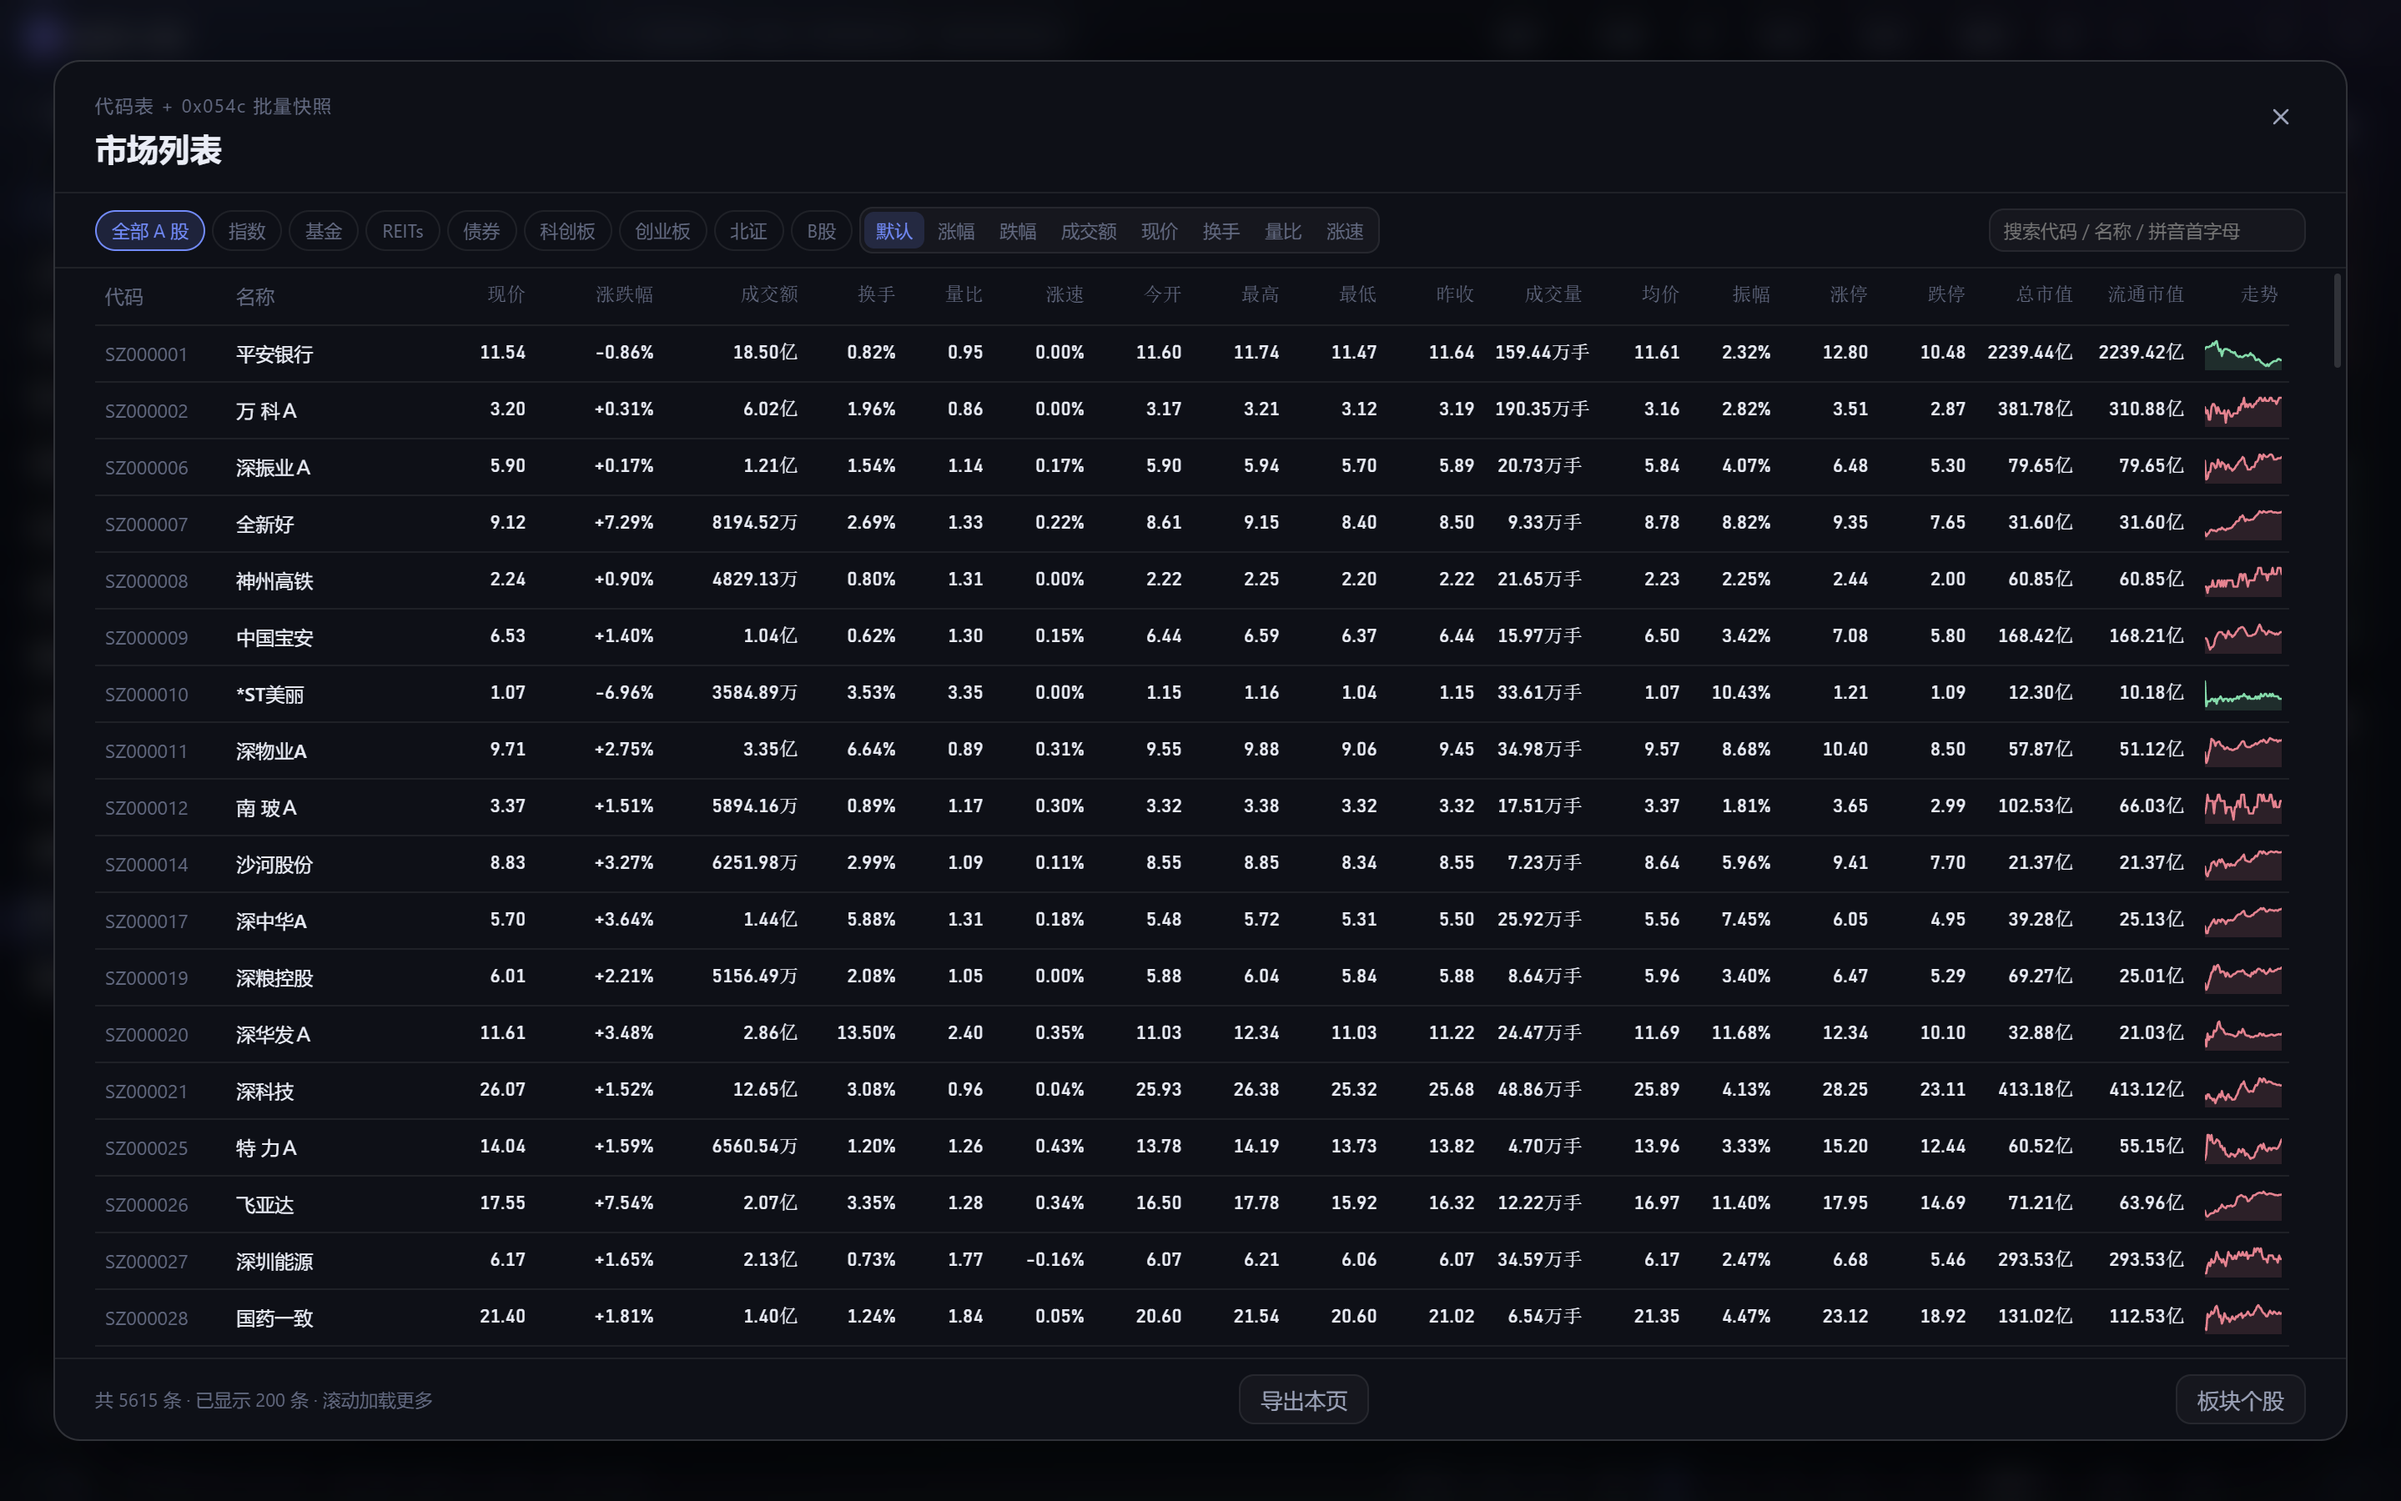
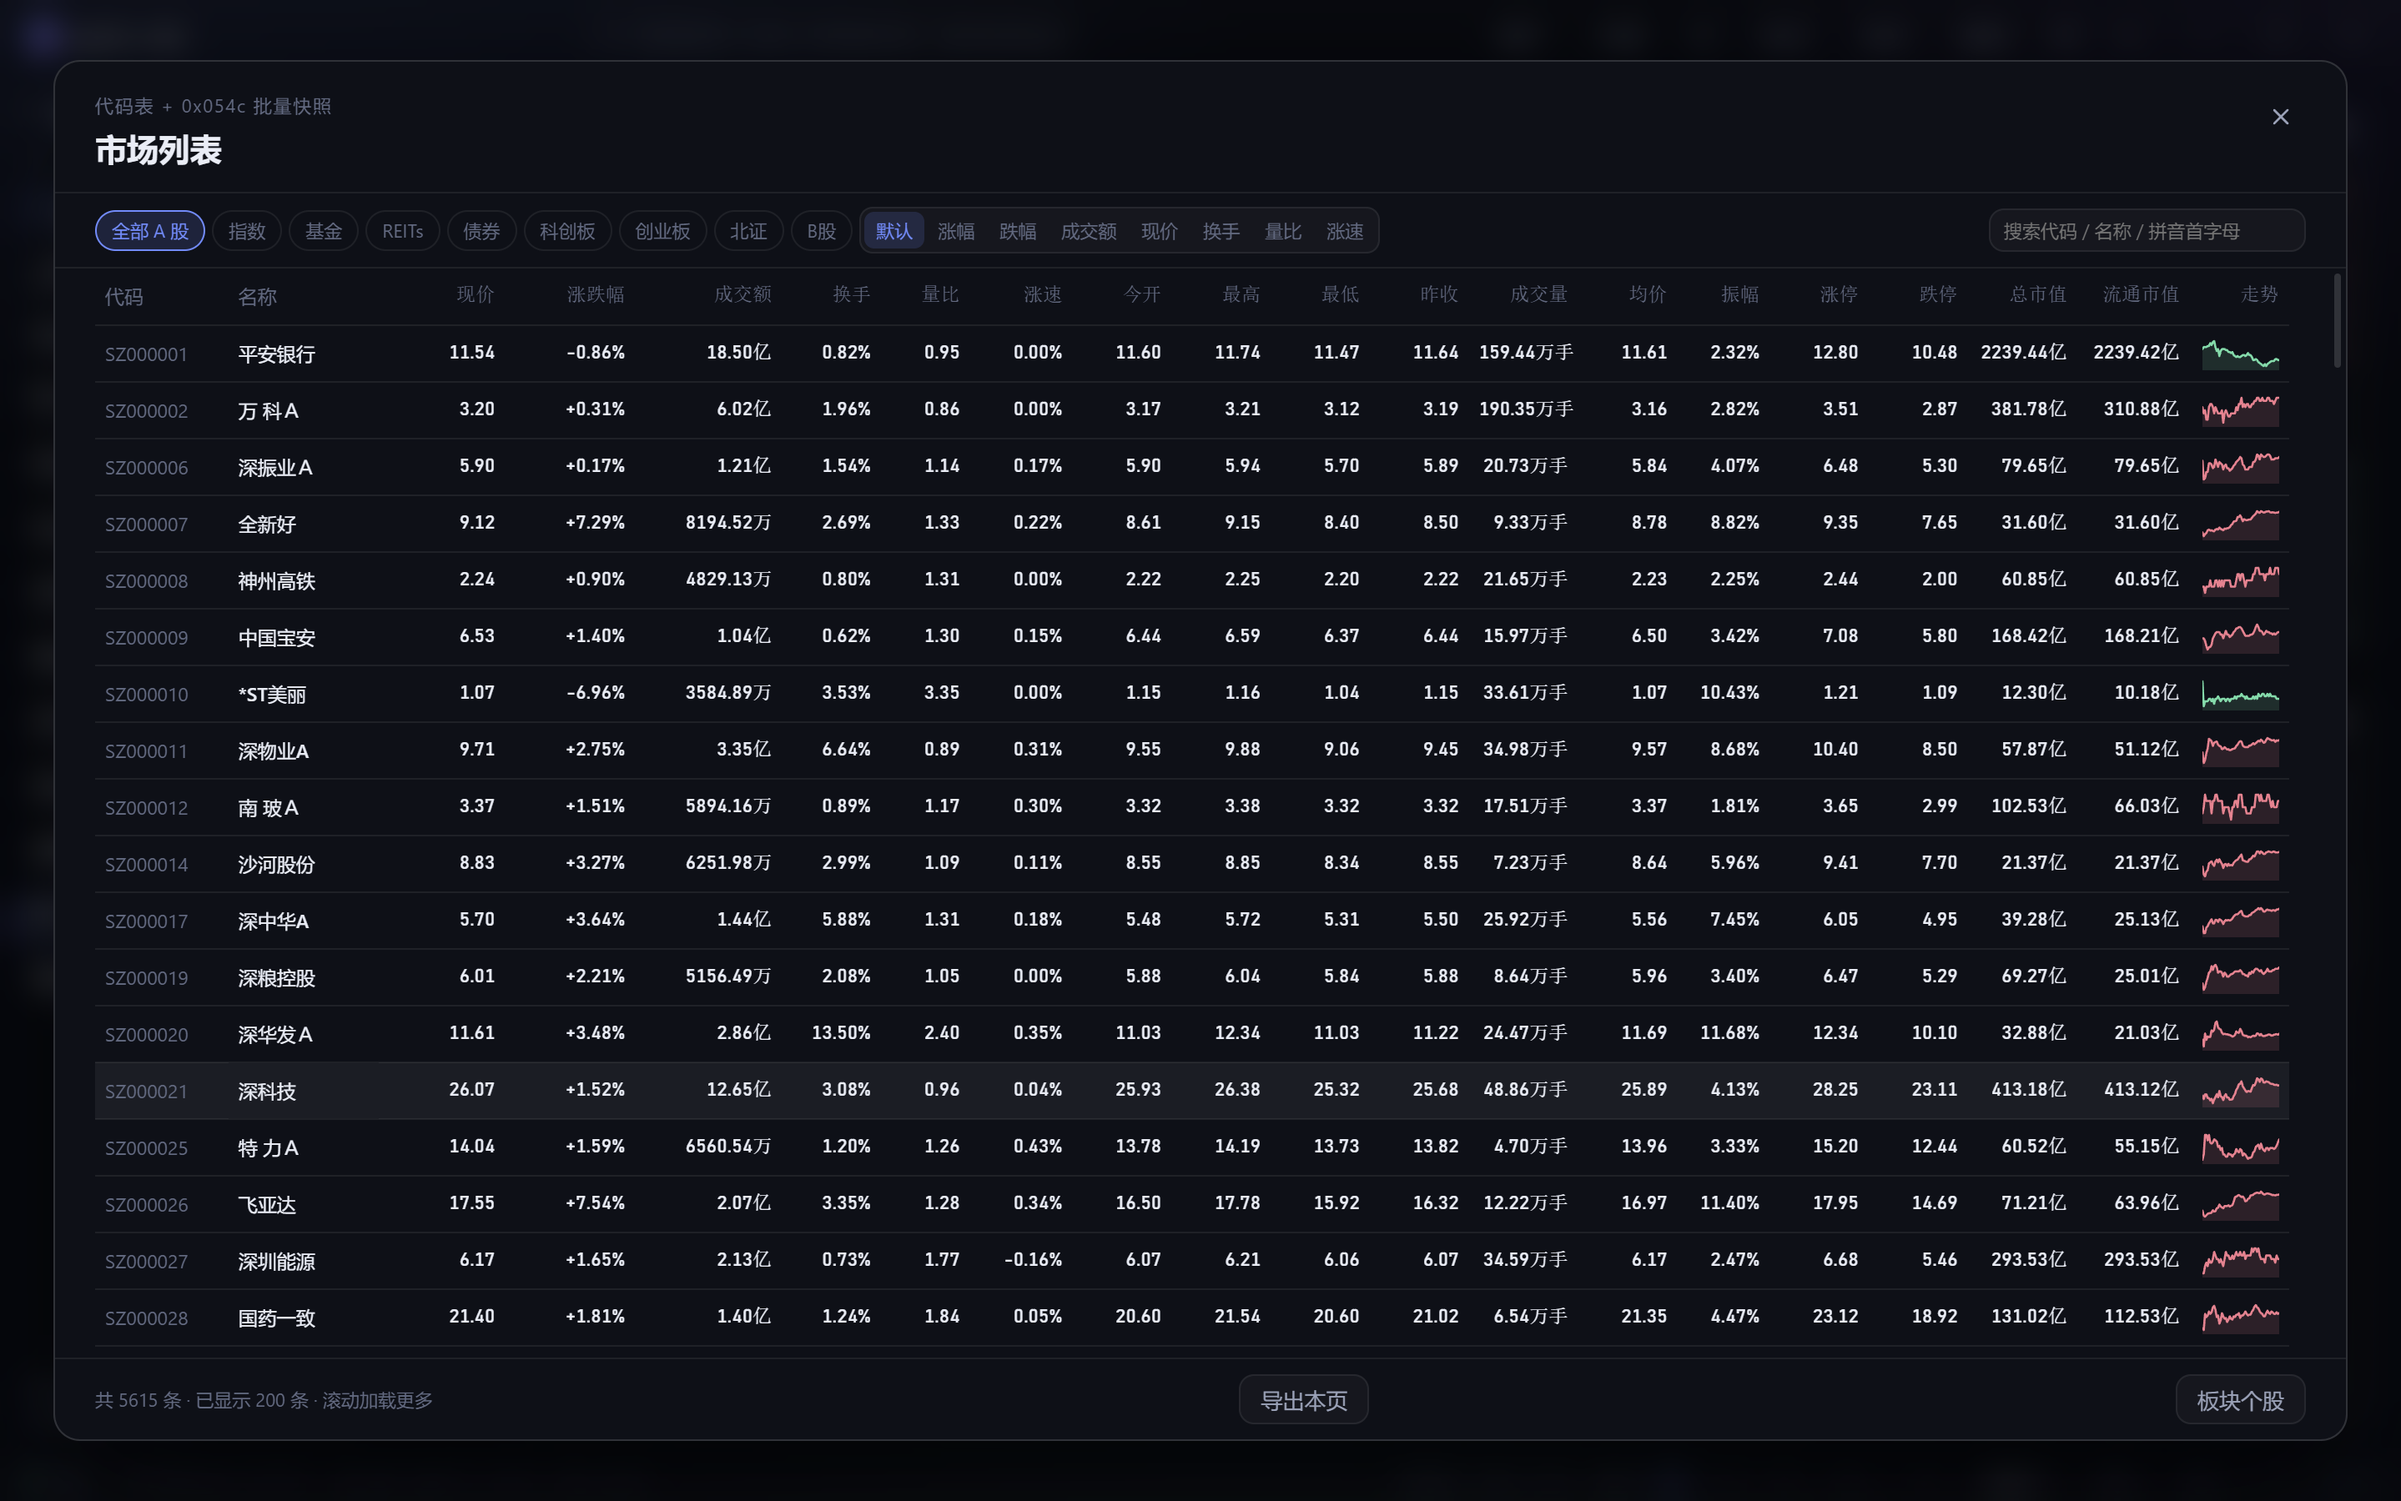
fix: 收窄三表名称列，修复板块侧栏走势图
- 全市场/板块/排行榜名称列收窄到 88/76/78，走势列加到 58，1440 下无横向滚动
- 板块/概念底部横向滚动条由走势列过窄导致，已消除
- 板块侧栏走势图按显示顺序预热，并随滚动补齐可见行
- 重新生成三张文档截图；npm run check 全绿；Windows 1.1.0 包重建

diff --git a/src/renderer/src/components/Sidebar.tsx b/src/renderer/src/components/Sidebar.tsx
@@ -29,7 +29,11 @@ import {
 } from '../stores/app'
 import { applyQuotes, quoteOf } from '../stores/quotes'
 import { openStockMenu } from '../stores/stockMenu'
-import { createSparklineLoader, sparklineOf } from '../stores/sparklines'
+import {
+  createSparklineLoader,
+  requestVisibleSparklines,
+  sparklineOf
+} from '../stores/sparklines'
 import { api, errorMessage } from '../lib/ipc'
 import { toneOf } from '../lib/tone'
 import { SectorPicker, type SectorSelection } from './SectorPicker'
@@ -82,6 +86,7 @@ function SectorRow(props: {
         'sector-row--drop-after': dropSide() === 'after'
       }}
       data-active={appState.activeCode === props.code}
+      data-code={props.code}
       title={`${props.name} ${props.code.toUpperCase()}${canDrag() ? '（可拖拽排序）' : ''}`}
       draggable={canDrag()}
       onDragStart={(event) => {
@@ -240,8 +245,8 @@ export function Sidebar(props: SidebarProps): JSX.Element {
   }
 
   const sectorRows = createMemo(() => rankRows(sector()))
-  // 板块成分股的迷你走势图：全部代码排队加载（加载器限 3 并发，边可见边出现）
-  createSparklineLoader(() => sector()?.codes ?? [])
+  // 按「显示顺序」预热，而不是按板块原始代码顺序；否则涨跌幅排序后首屏可能没有走势图。
+  createSparklineLoader(() => sectorRows().map((row) => row.code))
   /**
    * 自定义板块按 groupId 现算，而不是用选择时的快照：
    * 用户在这个分组里加/删股票后，排行要立刻跟着变。
@@ -262,6 +267,7 @@ export function Sidebar(props: SidebarProps): JSX.Element {
       quote: quoteOf(code)
     }))
   })
+  createSparklineLoader(() => customRows().map((row) => row.code))
   /** 「自定义板块」= 除自选之外的所有分组；自选那一组不再以分组形式出现 */
   const customGroups = createMemo(() =>
     appState.groups.filter((group) => group.id !== defaultGroup()?.id)
@@ -476,7 +482,10 @@ export function Sidebar(props: SidebarProps): JSX.Element {
           </button>
         </div>
         <Show when={sectorError()}>{(message) => <div class="sector-error">{message()}</div>}</Show>
-        <div class="sidebar__list sector-list">
+        <div
+          class="sidebar__list sector-list"
+          onScroll={(event) => requestVisibleSparklines(event.currentTarget)}
+        >
           <Show
             when={sector()}
             fallback={
@@ -528,7 +537,10 @@ export function Sidebar(props: SidebarProps): JSX.Element {
             删除
           </button>
         </div>
-        <div class="sidebar__list sector-list">
+        <div
+          class="sidebar__list sector-list"
+          onScroll={(event) => requestVisibleSparklines(event.currentTarget)}
+        >
           <Show
             when={customSector()}
             fallback={

diff --git a/src/renderer/src/components/BlockPanel.tsx b/src/renderer/src/components/BlockPanel.tsx
@@ -316,18 +316,18 @@ export function BlockPanel(props: BlockPanelProps): JSX.Element {
                   >
                     <table class="block__table">
                       <colgroup>
-                        <col style="width: 64px" />
-                        <col style="width: 88px" />
-                        <col style="width: 64px" />
-                        <col style="width: 64px" />
-                        <col style="width: 70px" />
+                        <col style="width: 60px" />
+                        <col style="width: 76px" />
+                        <col style="width: 62px" />
+                        <col style="width: 62px" />
+                        <col style="width: 68px" />
                         <col style="width: 52px" />
                         <col style="width: 46px" />
-                        <col style="width: 50px" />
+                        <col style="width: 48px" />
                         <For each={EXTRA_COLUMNS}>
                           {(column) => <col style={{ width: `${column.width - 2}px` }} />}
                         </For>
-                        <col style="width: 36px" />
+                        <col style="width: 58px" />
                       </colgroup>
                       <thead>
                         <tr>

diff --git a/src/renderer/src/components/RankingPanel.tsx b/src/renderer/src/components/RankingPanel.tsx
@@ -436,7 +436,7 @@ export function RankingPanel(props: RankingPanelProps): JSX.Element {
             <colgroup>
               <col style="width: 36px" />
               <col style="width: 70px" />
-              <col style="width: 90px" />
+              <col style="width: 78px" />
               <col style="width: 72px" />
               <col style="width: 74px" />
               <col style="width: 84px" />
@@ -449,7 +449,7 @@ export function RankingPanel(props: RankingPanelProps): JSX.Element {
               <Show when={flowMode()}>
                 <col style="width: 86px" />
               </Show>
-              <col style="width: 50px" />
+              <col style="width: 58px" />
             </colgroup>
             <thead>
               <tr>

diff --git a/src/renderer/src/components/MarketListPanel.tsx b/src/renderer/src/components/MarketListPanel.tsx
@@ -349,7 +349,7 @@ export function MarketListPanel(props: {
           <table class="market__table">
             <colgroup>
               <col style="width: 78px" />
-              <col style="width: 110px" />
+              <col style="width: 88px" />
               <col style="width: 74px" />
               <col style="width: 76px" />
               <col style="width: 86px" />
@@ -359,7 +359,7 @@ export function MarketListPanel(props: {
               <For each={EXTRA_COLUMNS}>
                 {(column) => <col style={{ width: `${column.width}px` }} />}
               </For>
-              <col style="width: 56px" />
+              <col style="width: 58px" />
             </colgroup>
             <thead>
               <tr>

diff --git a/src/renderer/src/stores/sparklines.ts b/src/renderer/src/stores/sparklines.ts
@@ -108,7 +108,7 @@ export function createSparklineLoader(codes: Accessor<string[]>): void {
 /** 表格滚动时调用：只给当前视口内的行补走势图 */
 export function requestVisibleSparklines(container: HTMLElement): void {
   const box = container.getBoundingClientRect()
-  for (const row of container.querySelectorAll<HTMLElement>('tbody tr[data-code]')) {
+  for (const row of container.querySelectorAll<HTMLElement>('[data-code]')) {
     const rect = row.getBoundingClientRect()
     if (rect.bottom < box.top || rect.top > box.bottom) continue
     const code = row.dataset.code

diff --git a/CHANGELOG.md b/CHANGELOG.md
@@ -18,7 +18,8 @@ pythontdx 的所有重要变更都记录在这里。
   `appId`、包名、Python sidecar 的缓存路径、数据 schema、备份 manifest、
   localStorage key 与文档全部改名。
 - **默认窗口改为 1440×900**：旧 1600×900/1280×820 默认尺寸启动时升级；
-  主行情指标固定 12 列单行，全市场/板块/排行榜压缩列宽，1440 下无横向滚动。
+  主行情指标固定 12 列单行；全市场/板块/排行榜收窄名称列、加宽走势列，
+  1440 下表格无横向滚动；板块侧栏的迷你走势按显示顺序预热并在滚动时补齐。
 - **旧数据迁移**（不删除旧目录/旧键）：
   - 主进程把 `%APPDATA%/StockLens`（或旧 userData 目录）复制到 `pythontdx`，
     `stocklens.json` 复制为 `pythontdx.json`；便携版 `StockLens-data` → `pythontdx-data`；

diff --git a/docs/07-手动编译发布手册.md b/docs/07-手动编译发布手册.md
@@ -1826,7 +1826,9 @@ Parquet schema 与文档。要求旧用户升级后不丢自选/设置/离线数
 - 默认窗口 1440×900；1440×900/1512×982/1280×800 主行情指标均为单行，
   无横向溢出、无裁切；
 - 全市场列表、板块/概念、排行榜（含全市场模式）在 1440×900 下表格
-  `scrollWidth === clientWidth`，无横向滚动条；
+  `scrollWidth === clientWidth`，无横向滚动条；名称列已收窄；
+- 板块侧栏迷你走势按涨跌幅显示顺序预热，滚动时按可见行补齐（42 行实测 37 个已加载，
+  其余为视口外/未滚动到的行）；
 - 迁移测试：旧 userData/本地存储/便携目录、Python 旧目录、已有新目录不覆盖、
   旧环境变量别名、旧备份清单。
 
